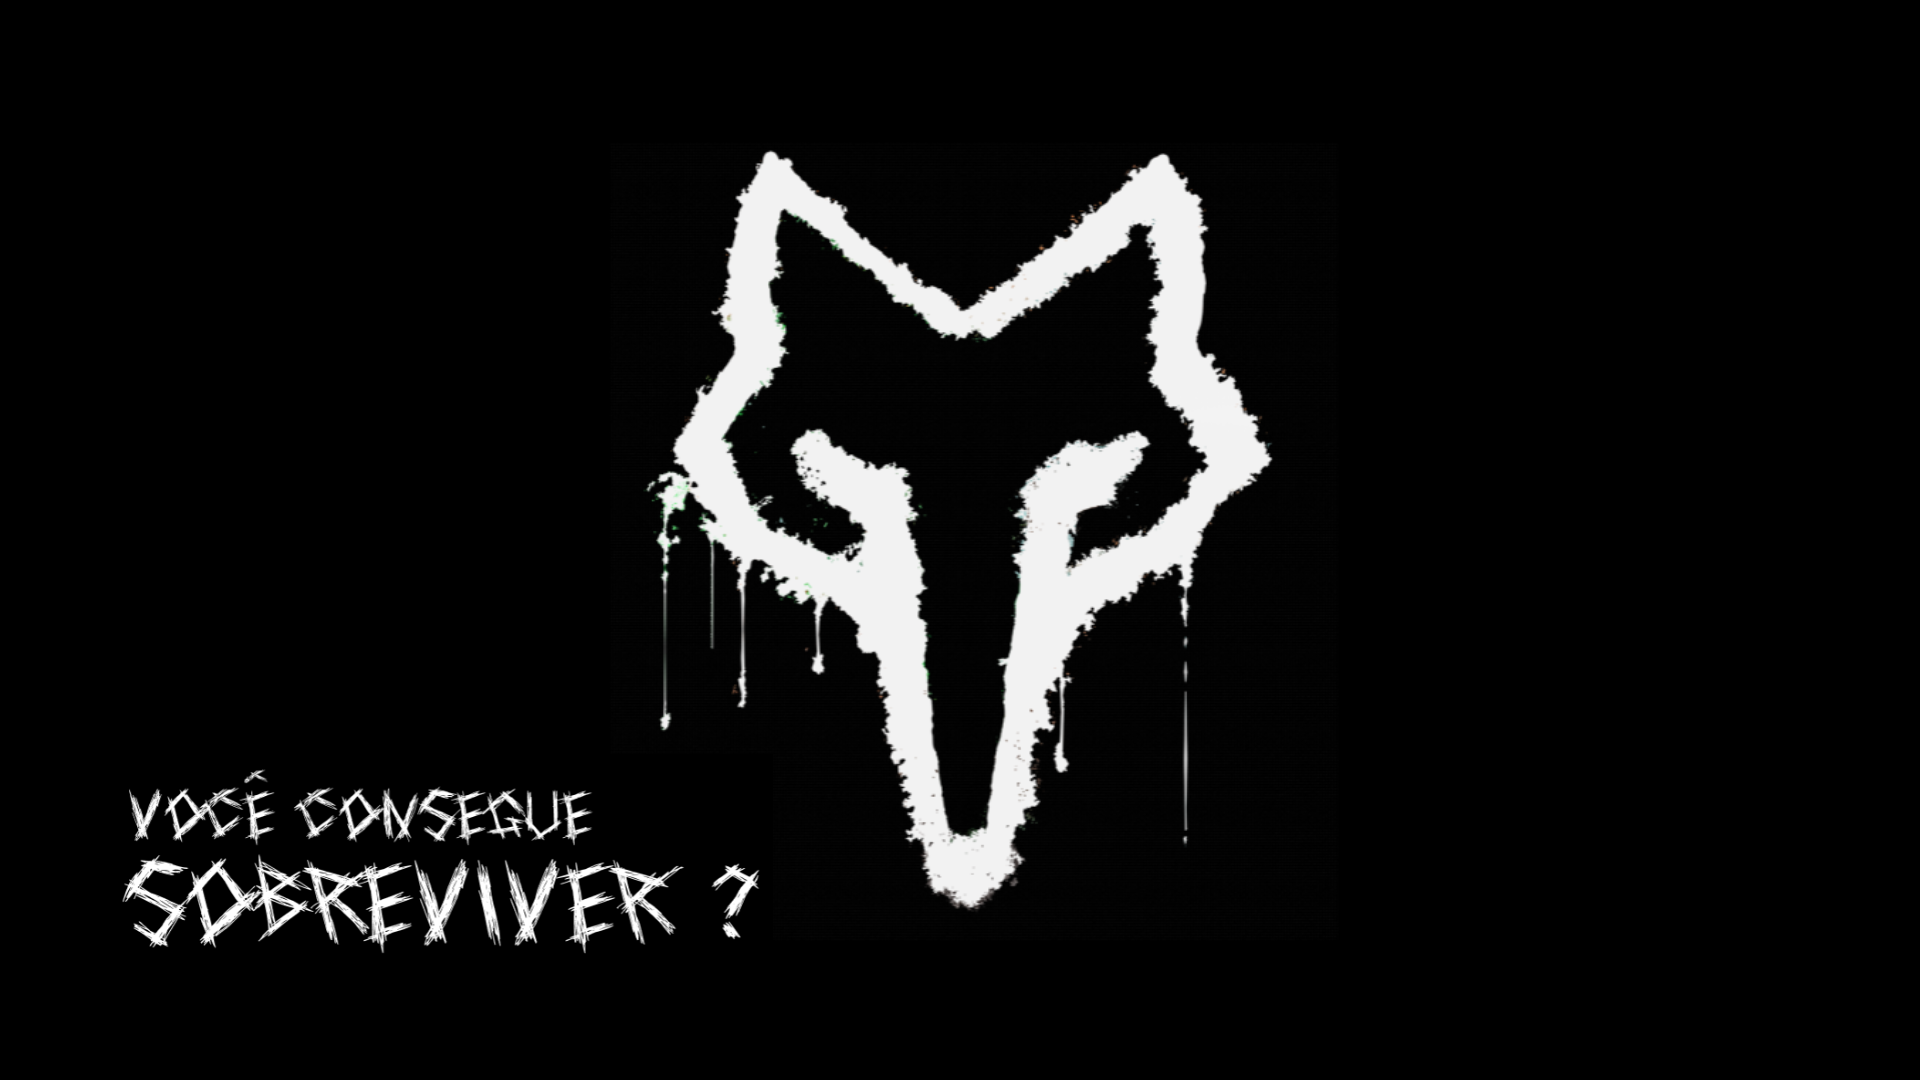
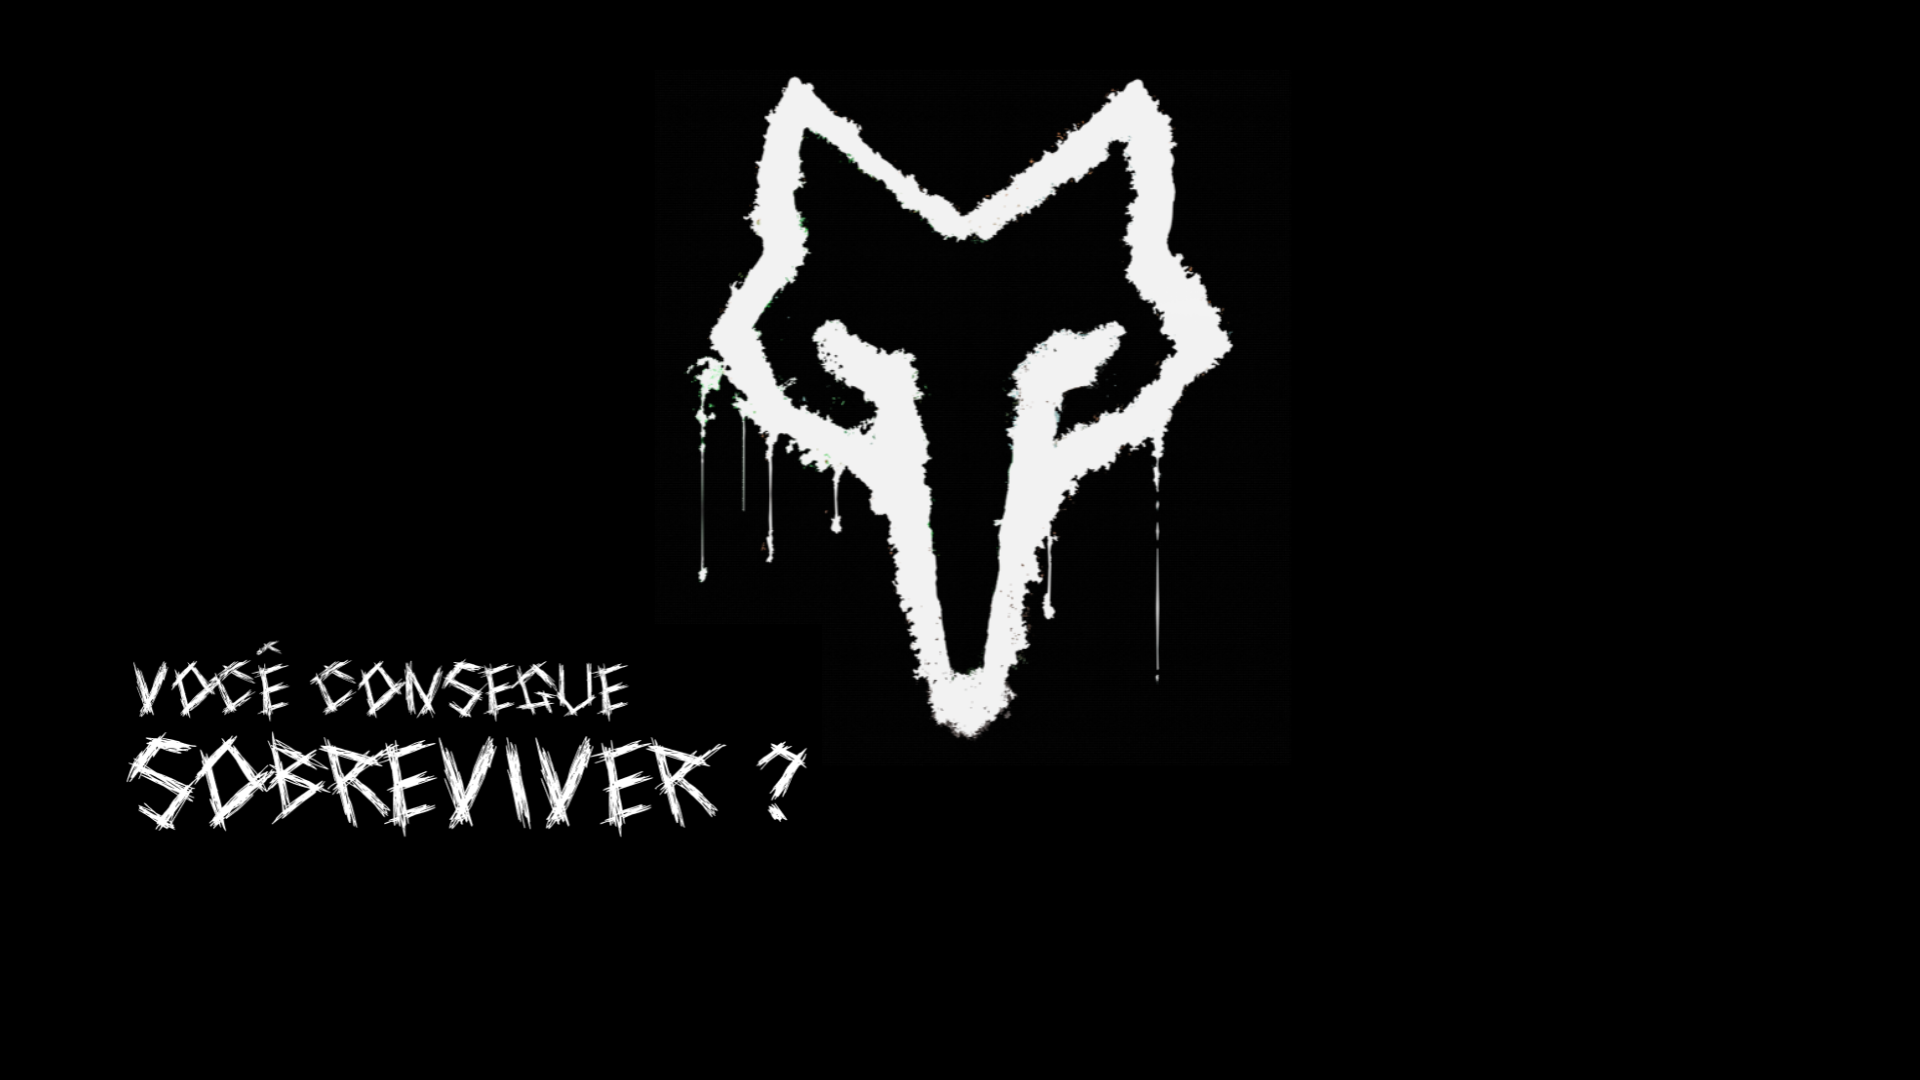
add inicio and guará gif

Changed region(s): [[0.3438, 0.0611, 0.6875, 0.8556], [0.0625, 0.6111, 0.4062, 0.8861], [0.375, 0.6111, 0.4062, 0.6417]]

diff --git a/index.html b/index.html
@@ -6,7 +6,7 @@
         
         <link rel="stylesheet" href="styles/style.css">
         
-        <link rel="icon" href="">
+        <link rel="icon" href="assets/silvertale-logo-icon-transformed.png">
 
         <title>Silvertale</title>
     </head>
@@ -23,6 +23,12 @@
                     </label>
                 </div>
                 
+                <div class="logo">
+                    <a href="index.html">
+                        <img src="assets/silvertale-logo-icon.png" height="60px" alt="Logo da Silvertale">
+                    </a>
+                </div>
+
                 <div class="links">
                     <a href="" class="noticias">
                         <!--icon--> NOTÍCIAS
@@ -57,19 +63,16 @@
         </header>
 
         <main>
-            <div class="guara-gif">
+            <div class="inicio">
+                <img class="guara-gif" src="assets/Guará.png" alt="Fundo da Página inicial">
 
+                <div class="watch">
+
+                    <!--icon-->
+                    <video src="" class="trailer"></video>
+                </div>
             </div>
-
-            <div class="text">
-
-            </div>
-
-            <div class="watch">
-
-                <!--icon-->
-                <video src="" class="trailer"></video>
-            </div>
+            
 
             <div class="about">
                 <div class="about-text">
@@ -77,7 +80,7 @@
                 </div>
                 
                 <div class="news">
-
+                    <img src="" alt="">
                 </div>
 
                 <div class="about-world">

diff --git a/styles/style.css b/styles/style.css
@@ -119,11 +119,30 @@ header
         flex-direction: row;
         gap:20px;
     }
-
-main
+.inicio
 {
-    height:120vh;
-    background:#b2ddb2;
+    position: relative;
+    display: flex;
+}
+ .guara-gif
+{
+    width:100%;
+    height: 100%;
+}
+ .watch
+{
+    height:4.5rem;
+    position:absolute;
+    bottom: 0;
+    
+}
+.trailer
+{
+    
+}
+.about-text
+{
+    height:7rem;
 }
 
 footer
